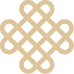
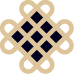
헤더제작중

diff --git a/index.html b/index.html
@@ -7,9 +7,62 @@
         <link rel="stylesheet" href="resources/css/mainpage.css" type="text/css">
     <title>Document</title>
     <style>
+        body{
+            background-color: #00001d;
+        }
+        header{
+            width: 100%; position: fixed;
+            z-index: 1000; left: 50%; top: 0; transform: translateX(-50%);
+        }
+        .header_deco{width: 100%; position: relative;}
+        .header_deco1>div{width: 100%; background-color: #ddc49b;}
+        .header_deco1>div:first-child{ height: 0.4em;}
+        .header_deco1>div:last-child{ height: 0.2em; margin-top: 0.2em;}
+        .header_deco2{
+            width: 100%; height: 0.2em; background-color: #ddc49b; position: relative;
+        }
+        .header_box{
+            width: 100%; margin: auto; max-width: 800px; color: #fff;
+            display: flex; justify-content: space-between; padding: 0.5em 2.5%;
+            align-items: center;
+        }
+        .header_logo{
+            width: 32%; margin: 3% 0;
+        }
+        .header_maenuBox{
+            display: flex; justify-content: right; gap: 1em; font-size: 1.1em; align-items: center;
+        }
+        .header_cashBtn{width: 33%;}
+        .header_cashBtn a{
+            display: block; width: 100%;
+        }
+        .header_barBtn{
+            width: 2.5em;
+        }
+        .header_deco_obj{
+            position: absolute; top: 0%; right: 2.5%; 
+            width: 8%; display: flex; flex-direction: column; justify-content: center; align-items: center;
+        }
+        .header_deco_obj>div:nth-child(1){width: 100%; transform: translateY(-45%) translateX(10%);}
+        .header_deco_obj>div:nth-child(2){width: 100%; transform: translateY(-20%) translateX(10%);}
     </style>
 </head>
 <body>
-    <h1>잘난체</h1>
+    <header>
+        <div class="header_deco header_deco1"><div></div><div></div></div>
+        <div class="header_box">
+            <div class="header_logo"><img src="./resources/img/logo.png" alt=""></div>
+            <div class="header_maenuBox">
+                <div class="header_cashBtn"><a href="#" target="_self"><img src="./resources/img/ui/header_btn.webp" alt=""></a></div>
+                <div class="header_barBtn"><img src="./resources/img/ui/burger_bar.webp" alt=""></div>
+            </div>
+        </div>
+        <div class="header_deco header_deco2">
+            <div class="header_deco_obj">
+                <div><img src="./resources/img/ui/header_ob1.webp" alt=""></div>
+                <div><img src="./resources/img/ui/header_ob2.webp" alt=""></div>
+            </div>
+        </div>
+    </header>
 </body>
 </html>

diff --git a/resources/css/mainpage.css b/resources/css/mainpage.css
@@ -12,8 +12,47 @@ body{
 /* 한문 */
 .main_resule_han{font-family: 'JoseonPalace';}
 
+a{text-decoration: none;}
+img{
+    width: 100%; object-fit: contain;
+}
 h1{font-family: 'YeogiOttaeJalnanGothic'; font-weight: 100;}
 
+header{
+    width: 100%; position: fixed;
+    z-index: 1000; left: 50%; top: 0; transform: translateX(-50%);
+}
+.header_deco{width: 100%; position: relative;}
+.header_deco1>div{width: 100%; background-color: #ddc49b;}
+.header_deco1>div:first-child{ height: 0.4em;}
+.header_deco1>div:last-child{ height: 0.2em; margin-top: 0.2em;}
+.header_deco2{
+    width: 100%; height: 0.2em; background-color: #ddc49b; position: relative;
+}
+.header_box{
+    width: 100%; margin: auto; max-width: 800px; color: #fff;
+    display: flex; justify-content: space-between; padding: 0.5em 2.5%;
+    align-items: center;
+}
+.header_logo{
+    width: 32%; margin: 3% 0;
+}
+.header_maenuBox{
+    display: flex; justify-content: right; gap: 1em; font-size: 1.1em; align-items: center;
+}
+.header_cashBtn{width: 33%;}
+.header_cashBtn a{
+    display: block; width: 100%;
+}
+.header_barBtn{
+    width: 2.5em;
+}
+.header_deco_obj{
+    position: absolute; top: 0%; right: 2.5%; 
+    width: 8%; display: flex; flex-direction: column; justify-content: center; align-items: center;
+}
+.header_deco_obj>div:nth-child(1){width: 100%; transform: translateY(-45%) translateX(10%);}
+.header_deco_obj>div:nth-child(2){width: 100%; transform: translateY(-20%) translateX(10%);}
 
 
 
